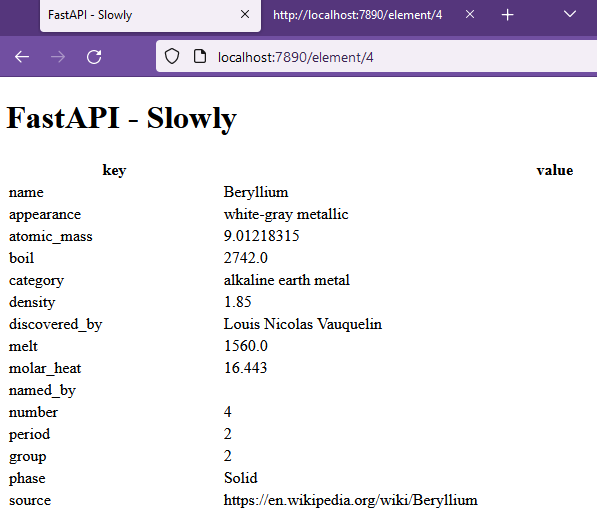
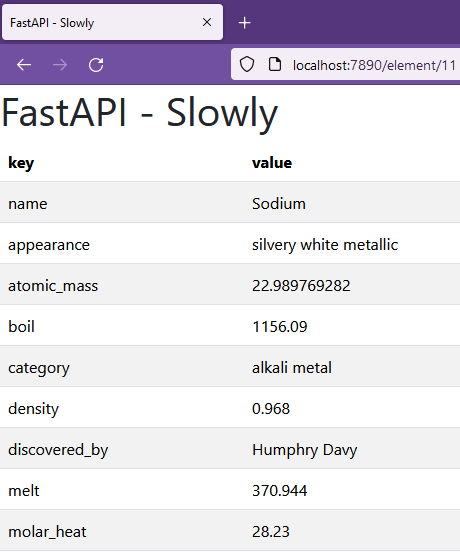
minimal bootstrap styling

diff --git a/fastapi_slowly/api.py b/fastapi_slowly/api.py
@@ -70,7 +70,8 @@ async def get_element(request: Request, Z: int):
 
     element_html = templates.get_template("table_basic.html.jinja").render(
         header=["key", "value"],
-        data=[(key, value) for key, value in zip(header, element_info)]
+        data=[(key, value) for key, value in zip(header, element_info)],
+        classes="table table-striped",
     )
 
     context = {

diff --git a/README.md b/README.md
@@ -1,22 +1,20 @@
 # Navigation
 
-## [`09 <- `](https://github.com/liquidcarbon/FastAPI-Slowly/tree/09)**`10`**[` -> 11`](https://github.com/liquidcarbon/FastAPI-Slowly/tree/11)
+## [`10 <- `](https://github.com/liquidcarbon/FastAPI-Slowly/tree/10)**`11`**[` -> 12`](https://github.com/liquidcarbon/FastAPI-Slowly/tree/12)
 
 
-# 10. Populating an HTML table
+# 11. Styling with Bootstrap CSS
 
 ```bash
-a@SNAVVV:~/code/FastAPI-Slowly$ git checkout -b 10
-Switched to a new branch '10'
-
-a@SNAVVV:~/code/FastAPI-Slowly$ touch static/templates/table_basic.html.jinja
+a@SNAVVV:~/code/FastAPI-Slowly$ git checkout -b 11
+Switched to a new branch '11'
 
 a@SNAVVV:~/code/FastAPI-Slowly$ poetry version minor
-Bumping version from 0.9.0 to 0.10.0
+Bumping version from 0.10.0 to 0.11.0
 ```
 
-![table](image.png)
+![styled table](image.png)
 
 ---
 
-## [`09 <- `](https://github.com/liquidcarbon/FastAPI-Slowly/tree/09)**`10`**[` -> 11`](https://github.com/liquidcarbon/FastAPI-Slowly/tree/11)
+## [`10 <- `](https://github.com/liquidcarbon/FastAPI-Slowly/tree/10)**`11`**[` -> 12`](https://github.com/liquidcarbon/FastAPI-Slowly/tree/12)
